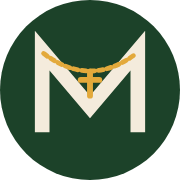
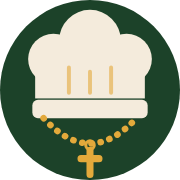
Synk fran BahkoByra@35c18e3

Changed region(s): [[0.1389, 0.0556, 0.8611, 1.0]]

diff --git a/.claude/skills/video-to-website/maykas/site/index.html b/.claude/skills/video-to-website/maykas/site/index.html
@@ -29,7 +29,7 @@
   <!-- ── HEADER ── -->
   <header class="site-header" id="site-header">
     <nav>
-      <a class="nav-logo" href="#"><img class="logo-mark" src="img/logga.svg" alt="" width="34" height="34">Mayka Gulo</a>
+      <a class="nav-logo" href="#"><svg class="logo-mark" viewBox="0 0 64 64" width="36" height="36" aria-hidden="true" focusable="false"><circle cx="19" cy="21" r="9" fill="currentColor"/><circle cx="32" cy="14.5" r="11" fill="currentColor"/><circle cx="45" cy="21" r="9" fill="currentColor"/><rect x="12.5" y="21" width="39" height="14" fill="currentColor"/><path d="M24.5 24 V33 M32 25.5 V33 M39.5 24 V33" stroke="#E3A93B" stroke-opacity="0.6" stroke-width="1.4" stroke-linecap="round" fill="none"/><rect x="11.5" y="35.5" width="41" height="6.5" rx="2" fill="currentColor"/><path d="M15.5 42 Q32 60 48.5 42" stroke="#E3A93B" stroke-width="2.3" stroke-linecap="round" stroke-dasharray="0.1 3.2" fill="none"/><circle cx="32" cy="51.6" r="1.5" fill="none" stroke="#E3A93B" stroke-width="1.1"/><path d="M32 53.4 V62 M28.8 56.4 H35.2" stroke="#E3A93B" stroke-width="2.5" stroke-linecap="round" fill="none"/></svg>Mayka Gulo</a>
       <ul class="nav-links">
         <li><a href="#boken" data-i18n="nav.book">Boken</a></li>
         <li><a href="recept.html" data-i18n="nav.recipes">Recept</a></li>
@@ -311,7 +311,7 @@
   <footer class="site-footer">
     <div class="footer-top">
       <div class="footer-brand">
-        <span class="footer-logo"><img src="img/logga.svg" alt="" width="34" height="34"> Mayka Gulo</span>
+        <span class="footer-logo"><svg class="logo-mark" viewBox="0 0 64 64" width="36" height="36" aria-hidden="true" focusable="false"><circle cx="19" cy="21" r="9" fill="currentColor"/><circle cx="32" cy="14.5" r="11" fill="currentColor"/><circle cx="45" cy="21" r="9" fill="currentColor"/><rect x="12.5" y="21" width="39" height="14" fill="currentColor"/><path d="M24.5 24 V33 M32 25.5 V33 M39.5 24 V33" stroke="#E3A93B" stroke-opacity="0.6" stroke-width="1.4" stroke-linecap="round" fill="none"/><rect x="11.5" y="35.5" width="41" height="6.5" rx="2" fill="currentColor"/><path d="M15.5 42 Q32 60 48.5 42" stroke="#E3A93B" stroke-width="2.3" stroke-linecap="round" stroke-dasharray="0.1 3.2" fill="none"/><circle cx="32" cy="51.6" r="1.5" fill="none" stroke="#E3A93B" stroke-width="1.1"/><path d="M32 53.4 V62 M28.8 56.4 H35.2" stroke="#E3A93B" stroke-width="2.5" stroke-linecap="round" fill="none"/></svg> Mayka Gulo</span>
         <p class="footer-tagline" data-i18n="footer.tagline">Recept, livsstil och äkta stunder<br>med hjärtat i min assyriska/syrianska matkultur.</p>
         <div class="footer-social">
           <a href="https://www.instagram.com/maykaskitchen/" target="_blank" rel="noopener" aria-label="Instagram">IG</a>

diff --git a/.claude/skills/video-to-website/maykas/site/integritet.html b/.claude/skills/video-to-website/maykas/site/integritet.html
@@ -20,7 +20,7 @@
     body { background: var(--cream); color: var(--ink); font-family: 'Poppins', system-ui, sans-serif; line-height: 1.7; -webkit-font-smoothing: antialiased; }
     .topp { display: flex; align-items: center; justify-content: space-between; gap: 1rem; padding: 0.9rem 5vw; border-bottom: 1px solid var(--line); }
     .logga { font-family: 'Marcellus', Georgia, serif; font-size: clamp(1.05rem, 5vw, 1.3rem); white-space: nowrap; color: var(--ink); text-decoration: none; letter-spacing: 0.03em; min-height: 44px; display: inline-flex; align-items: center; }
-    .logo-mark { width: 32px; height: 32px; margin-right: 0.5rem; border-radius: 50%; }
+    .logo-mark { width: 34px; height: 34px; margin-right: 0.4rem; color: inherit; }
     .kop { display: inline-flex; align-items: center; min-height: 44px; padding: 0.5rem 1.1rem; white-space: nowrap; border-radius: 999px; background: var(--terra); color: var(--cream); font-size: 0.8rem; font-weight: 600; text-decoration: none; }
     .kop:hover { background: var(--terra-dk); }
     main { max-width: 42rem; margin: 0 auto; padding: 3.5rem 5vw 5rem; }
@@ -38,7 +38,7 @@
 </head>
 <body>
   <header class="topp">
-    <a class="logga" href="index.html"><img class="logo-mark" src="img/logga.svg" alt="" width="34" height="34">Mayka Gulo</a>
+    <a class="logga" href="index.html"><svg class="logo-mark" viewBox="0 0 64 64" width="36" height="36" aria-hidden="true" focusable="false"><circle cx="19" cy="21" r="9" fill="currentColor"/><circle cx="32" cy="14.5" r="11" fill="currentColor"/><circle cx="45" cy="21" r="9" fill="currentColor"/><rect x="12.5" y="21" width="39" height="14" fill="currentColor"/><path d="M24.5 24 V33 M32 25.5 V33 M39.5 24 V33" stroke="#E3A93B" stroke-opacity="0.6" stroke-width="1.4" stroke-linecap="round" fill="none"/><rect x="11.5" y="35.5" width="41" height="6.5" rx="2" fill="currentColor"/><path d="M15.5 42 Q32 60 48.5 42" stroke="#E3A93B" stroke-width="2.3" stroke-linecap="round" stroke-dasharray="0.1 3.2" fill="none"/><circle cx="32" cy="51.6" r="1.5" fill="none" stroke="#E3A93B" stroke-width="1.1"/><path d="M32 53.4 V62 M28.8 56.4 H35.2" stroke="#E3A93B" stroke-width="2.5" stroke-linecap="round" fill="none"/></svg>Mayka Gulo</a>
     <a class="kop" href="https://clk.tradedoubler.com/click?p=362&amp;a=3477349&amp;url=https%3A%2F%2Fwww.bokus.com%2Fbok%2F9789190032091%2Fmaykas-grona-kok-kutle-hummus-och-karlek%2F" target="_blank" rel="sponsored noopener">Köp min bok</a>
   </header>
 

diff --git a/.claude/skills/video-to-website/maykas/site/recept.html b/.claude/skills/video-to-website/maykas/site/recept.html
@@ -44,7 +44,7 @@
     .nav-mini { display: flex; gap: clamp(0.8rem, 1.3vw, 1.6rem); list-style: none; }
     .nav-mini a { font-size: 0.8rem; font-weight: 500; letter-spacing: 0.06em; color: var(--ink); text-decoration: none; opacity: 0.85; padding: 0.4rem 0; }
     .nav-mini a:hover { opacity: 1; color: var(--terra); }
-    .logo-mark { width: 34px; height: 34px; margin-right: 0.55rem; flex: none; border-radius: 50%; box-shadow: 0 2px 8px rgba(0,0,0,0.25); }
+    .logo-mark { width: 36px; height: 36px; margin-right: 0.45rem; flex: none; color: inherit; }
     .nav-right { display: flex; align-items: center; gap: 0.5rem; flex: none; }
     @media (max-width: 480px) { .back-btn span { display: none; } .back-btn { padding: 0.4rem 0.8rem; } }
     .nav-buy { display: inline-flex; align-items: center; min-height: 40px; padding: 0.5rem 1.1rem; border-radius: 999px; background: var(--terra); color: var(--cream); font-size: 0.74rem; font-weight: 600; letter-spacing: 0.06em; text-decoration: none; }
@@ -212,7 +212,7 @@
 <body>
 
 <header class="site-header">
-  <a class="nav-logo" href="index.html"><img class="logo-mark" src="img/logga.svg" alt="" width="34" height="34">Mayka Gulo</a>
+  <a class="nav-logo" href="index.html"><svg class="logo-mark" viewBox="0 0 64 64" width="36" height="36" aria-hidden="true" focusable="false"><circle cx="19" cy="21" r="9" fill="currentColor"/><circle cx="32" cy="14.5" r="11" fill="currentColor"/><circle cx="45" cy="21" r="9" fill="currentColor"/><rect x="12.5" y="21" width="39" height="14" fill="currentColor"/><path d="M24.5 24 V33 M32 25.5 V33 M39.5 24 V33" stroke="#E3A93B" stroke-opacity="0.6" stroke-width="1.4" stroke-linecap="round" fill="none"/><rect x="11.5" y="35.5" width="41" height="6.5" rx="2" fill="currentColor"/><path d="M15.5 42 Q32 60 48.5 42" stroke="#E3A93B" stroke-width="2.3" stroke-linecap="round" stroke-dasharray="0.1 3.2" fill="none"/><circle cx="32" cy="51.6" r="1.5" fill="none" stroke="#E3A93B" stroke-width="1.1"/><path d="M32 53.4 V62 M28.8 56.4 H35.2" stroke="#E3A93B" stroke-width="2.5" stroke-linecap="round" fill="none"/></svg>Mayka Gulo</a>
   <ul class="nav-mini">
     <li><a href="index.html" data-i18n="nav.home">Hem</a></li>
     <li><a href="index.html#boken" data-i18n="nav.book">Boken</a></li>

diff --git a/.claude/skills/video-to-website/maykas/site/css/style.css b/.claude/skills/video-to-website/maykas/site/css/style.css
@@ -629,6 +629,6 @@ a { color: inherit; }
 .cta-fakta { align-self: stretch; }
 
 /* ── Logga: M med korshalsband ── */
-.logo-mark { width: 34px; height: 34px; margin-right: 0.55rem; flex: none; border-radius: 50%; box-shadow: 0 2px 8px rgba(0,0,0,0.25); }
+.logo-mark { width: 36px; height: 36px; margin-right: 0.45rem; flex: none; color: inherit; overflow: visible; }
 .footer-logo { display: inline-flex; align-items: center; gap: 0.55rem; }
-@media (max-width: 400px) { .logo-mark { width: 30px; height: 30px; margin-right: 0.45rem; } }
+@media (max-width: 400px) { .logo-mark { width: 32px; height: 32px; margin-right: 0.35rem; } }
